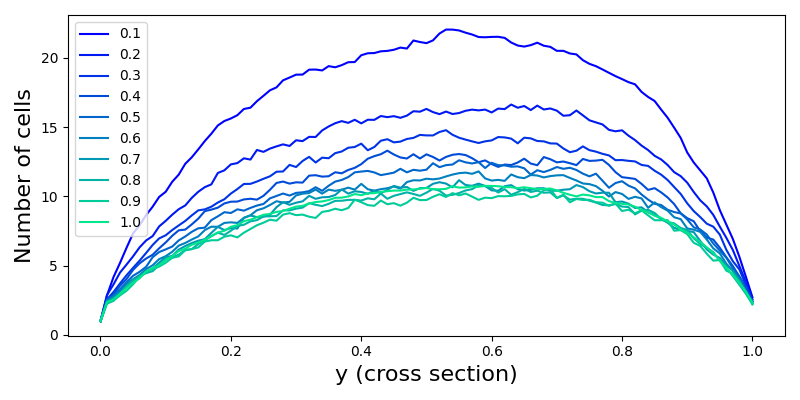
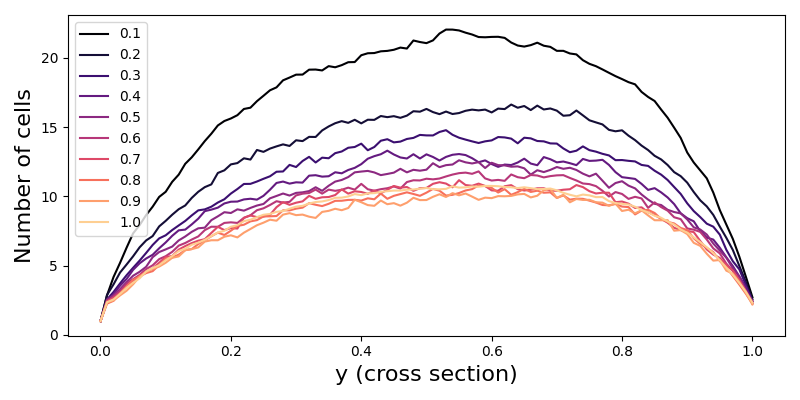
Removed Old Data

diff --git a/scripts/script_monte_carlo_single.py b/scripts/script_monte_carlo_single.py
@@ -4,8 +4,7 @@ from src.utils import generate_heatmap, plot_boolean_grid
 if __name__ == "__main__":
     grid_size = 101
     sticking_prob = 0.1
-    max_walkers_per_sim = 100000
-    num_simulations = 500
+    max_walkers_per_sim = 250000
     sticking_prob_str = str(sticking_prob).replace(".", "_")
 
     results, walk_count, successful_walks = monte_carlo_sim(grid_size, 
@@ -39,4 +38,4 @@ if __name__ == "__main__":
                      "Successful walker final states", 
                      "Number of walkers",
                      save_plot=True,
-                     plot_file_name="heatmap_successful_walker_final_states" + sticking_prob + ".png")
+                     plot_file_name="heatmap_successful_walker_final_states" + sticking_prob_str + ".png")

diff --git a/src/utils.py b/src/utils.py
@@ -197,7 +197,7 @@ def plot_many_runs_experiment_multiple(sticking_prob_array,
                             plot_file_name="flat_histogram.png"):
     
     plt.figure(figsize=(8, 4))
-    cmap = get_cmap('winter')  # Use a colormap with easily distinguishable colors
+    cmap = get_cmap('magma')  # Use a colormap with easily distinguishable colors
 
     for i, sticking_prob in enumerate(sticking_prob_array):
         sticking_prob_str = str(sticking_prob).replace(".", "_")

diff --git a/scripts/script_monte_carlo_plot_multi.py b/scripts/script_monte_carlo_plot_multi.py
@@ -36,7 +36,7 @@ if __name__ == "__main__":
 
     sticking_prob = 1.0
     
-    scrpt_plot_monte_carlo_results(sticking_prob)
+    #scrpt_plot_monte_carlo_results(sticking_prob)
 
     plot_many_runs_experiment_multiple([0.1,0.2,0.3,0.4,0.5,0.6,0.7,0.8,0.9,1.0],
                                        "final_seed_growth_states_",
